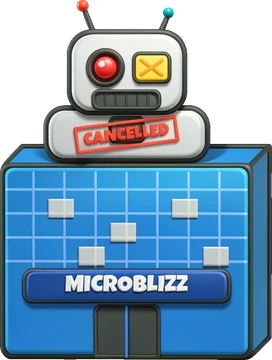
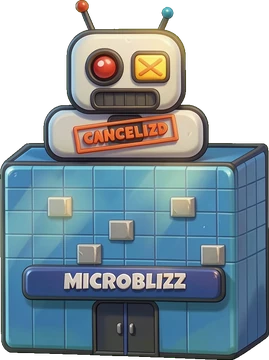
alfa 1b7ebe9: Rumble v2: cartas de Microblizz de frente, torre y sede de Microblizz repintadas

diff --git a/alfa/index.html b/alfa/index.html
@@ -12,10 +12,10 @@
 <link rel="preconnect" href="https://fonts.googleapis.com">
 <link rel="preconnect" href="https://fonts.gstatic.com" crossorigin>
 <link rel="stylesheet" href="https://fonts.googleapis.com/css2?family=Baloo+2:wght@600;700;800&family=Luckiest+Guy&display=swap">
-<link rel="stylesheet" href="core/css/base.css?v=97a256a">
-<link rel="stylesheet" href="biblioteca/tienda.css?v=97a256a">
-<link rel="stylesheet" href="novedades/ventana.css?v=97a256a">
-<link rel="stylesheet" href="biblioteca/votos.css?v=97a256a">
+<link rel="stylesheet" href="core/css/base.css?v=1b7ebe9">
+<link rel="stylesheet" href="biblioteca/tienda.css?v=1b7ebe9">
+<link rel="stylesheet" href="novedades/ventana.css?v=1b7ebe9">
+<link rel="stylesheet" href="biblioteca/votos.css?v=1b7ebe9">
 <style>
   /* la entrada de la web: una tarjeta por juego, con los colores y las letras de core */
   body { overflow: auto; touch-action: auto; align-items: flex-start; background-repeat: no-repeat; background-attachment: fixed; }
@@ -63,7 +63,7 @@
 </style>
 </head>
 <body>
-<script src="menu.js?v=97a256a" data-base="" data-core="1" data-pagina=""></script>
+<script src="menu.js?v=1b7ebe9" data-base="" data-core="1" data-pagina=""></script>
 <div class="nov-fondo" id="novedades" hidden>
   <div class="nov-caja" role="dialog" aria-modal="true" aria-labelledby="nov-titulo">
     <div class="nov-cabeza"><h2 class="ol" id="nov-titulo">NOVEDADES</h2><p id="nov-sub"></p></div>
@@ -372,8 +372,8 @@
   </section>
   <p class="note" id="pie-fansof">Fans Of™ · © 2026 Arkioner y Pepins · MicroBlizz · Todos los derechos reservados</p>
 </main>
-<script src="core/js/nucleo.js?v=0-a1090.97a256a"></script>
-<script src="core/js/novedades.js?v=97a256a"></script>
+<script src="core/js/nucleo.js?v=0-a1091.1b7ebe9"></script>
+<script src="core/js/novedades.js?v=1b7ebe9"></script>
 <script>
 // La cuenta de la web es la misma de los juegos (core/js/sistema/cuenta.js, mismo navegador = misma sesión). Aquí no hay partida que subir.
 const AJUSTES = { id: 'web', guardado: 'fansof-web' }, SAVE_KEY = AJUSTES.guardado, SAVE = {};
@@ -382,7 +382,7 @@ const HOOKS = {};
 function hook(name, fn) { (HOOKS[name] = HOOKS[name] || []).push(fn); }
 function fire(name, ...a) { let out = ''; for (const fn of HOOKS[name] || []) { const r = fn(...a); if (typeof r === 'string') out += r; } return out; }
 </script>
-<script src="core/js/sistema/cuenta.js?v=97a256a"></script>
+<script src="core/js/sistema/cuenta.js?v=1b7ebe9"></script>
 <script>NUCLEO.idiomaSolo({ en: ['core/idioma/en-raiz.js', 'novedades/en.js', 'biblioteca/en.js','games/rumble/idioma/en-7.js', 'games/td/idioma/en-2.js', 'games/survivors/idioma/en.js', 'games/crush/idioma/en-raiz.js', 'games/jump/idioma/en-raiz.js', 'games/taxi/idioma/en-raiz.js', 'games/dark/idioma/en-raiz.js', 'games/nova/idioma/en-raiz.js', 'games/nova/idioma/en-raiz-2.js', 'demos/beams/idioma/en-raiz.js', 'demos/snakes/idioma/en-raiz.js', 'demos/merge/idioma/en-raiz.js', 'demos/swipe/idioma/en-raiz.js', 'demos/pop/idioma/en-raiz.js', 'demos/vikings/idioma/en-raiz.js', 'demos/goose/idioma/en-raiz.js', 'demos/asalto/idioma/en-raiz.js', 'demos/auto/idioma/en-raiz.js', 'demos/shelter/idioma/en-raiz.js', 'demos/soccer/idioma/en-raiz.js', 'demos/air/idioma/en-raiz.js', 'demos/basement/idioma/en-raiz.js', 'demos/zombies/idioma/en-raiz.js', 'games/island/idioma/en-raiz.js', 'demos/rumble-3d/idioma/en-raiz.js', 'demos/roguelite/idioma/en-raiz.js', 'demos/tactics-advance/idioma/en-raiz.js', 'games/rouflage/idioma/en-raiz.js', 'demos/dungeons/idioma/en-raiz.js', 'games/karts/idioma/en-raiz.js', 'demos/recruit/idioma/en-raiz.js', 'demos/terminal-shock/idioma/en-raiz.js', 'games/ratkov/idioma/en-raiz.js'] })</script>
 <script>
 // La versión y las novedades salen de los archivos de cada juego, así que esta página nunca se queda atrás.
@@ -408,14 +408,14 @@ const fail = id => () => {
 };
 
 </script>
-<script src="core/js/proximamente.js?v=97a256a"></script>
-<script src="novedades/ventana.js?v=97a256a"></script>
-<script src="biblioteca/tienda.js?v=97a256a"></script>
-<script src="core/js/sistema/beta.js?v=97a256a"></script>
-<script src="biblioteca/cuenta-web.js?v=97a256a"></script>
-<script src="biblioteca/votos.js?v=97a256a"></script>
-<script src="biblioteca/alfa.js?v=97a256a"></script>
-<script src="core/js/sistema/analitica.js?v=97a256a"></script>
-<script src="pie.js?v=97a256a" defer></script>
+<script src="core/js/proximamente.js?v=1b7ebe9"></script>
+<script src="novedades/ventana.js?v=1b7ebe9"></script>
+<script src="biblioteca/tienda.js?v=1b7ebe9"></script>
+<script src="core/js/sistema/beta.js?v=1b7ebe9"></script>
+<script src="biblioteca/cuenta-web.js?v=1b7ebe9"></script>
+<script src="biblioteca/votos.js?v=1b7ebe9"></script>
+<script src="biblioteca/alfa.js?v=1b7ebe9"></script>
+<script src="core/js/sistema/analitica.js?v=1b7ebe9"></script>
+<script src="pie.js?v=1b7ebe9" defer></script>
 </body>
 </html>

diff --git a/alfa/games/rouflage/index.html b/alfa/games/rouflage/index.html
@@ -10,7 +10,7 @@
 <link rel="preconnect" href="https://fonts.googleapis.com">
 <link rel="preconnect" href="https://fonts.gstatic.com" crossorigin>
 <link rel="stylesheet" href="https://fonts.googleapis.com/css2?family=Baloo+2:wght@600;700;800&family=Luckiest+Guy&display=swap">
-<script src="../../core/js/nucleo.js?v=0.2.75-a1090.97a256a"></script>
+<script src="../../core/js/nucleo.js?v=0.2.75-a1091.1b7ebe9"></script>
 <script>NUCLEO.estilos('../../core/css/base.css', '../../core/css/menus.css', '../../core/css/menus-extra.css')</script>
 <script>NUCLEO.estilos('estilo.css', 'estilo-taller.css', 'estilo-pantallas.css', 'estilo-pvp.css', 'estilo-armario.css', 'estilo-menus.css', 'estilo-misiones.css', 'estilo-escenario.css', 'estilo-votos.css', 'estilo-gacha.css', 'estilo-compra.css', 'estilo-fin.css', 'estilo-talentos.css', 'estilo-chat.css', 'estilo-titulo.css', 'estilo-tienda.css', 'estilo-barras.css', 'estilo-tarjetas.css', 'estilo-barra.css', 'estilo-sala-viva.css', 'estilo-obra.css', 'estilo-ayuda.css', 'estilo-pintura.css', 'estilo-carga.css')</script>      <!-- la intro, la última: pisa el #carga de estilo.css (antes iba en línea dentro de #carga) -->
 </head>

diff --git a/alfa/demos/rumble-v2/index.html b/alfa/demos/rumble-v2/index.html
@@ -18,7 +18,7 @@
 <!-- core/js/nucleo.js carga lo común y el juego. LA VERSIÓN SE ESCRIBE SOLO AQUÍ, en su ?v= -->
 <!-- GENERADO por herramientas/rumble_v2.py desde games/rumble/index.html: no editar a mano -->
 <script>try { const u = new URL(location.href); if (u.searchParams.get('nube') !== '0') { u.searchParams.set('nube', '0'); history.replaceState(null, '', u); } } catch (e) { /* sin dirección */ }</script>
-<script src="../../core/js/nucleo.js?v=0.9.166-a1090.97a256a"></script>
+<script src="../../core/js/nucleo.js?v=0.9.166-a1091.1b7ebe9"></script>
 <script>NUCLEO.estilos('../../core/css/menus.css', '../../games/rumble/css/estilos-partida.css', '../../games/rumble/css/estilos-extra.css', '../../games/rumble/css/arena.css', '../../core/css/biblioteca.css', '../../games/rumble/css/facciones-y-jefes.css', '../../core/css/clasificacion.css', '../../games/rumble/css/frases.css', '../../games/rumble/css/mitica.css', '../../games/rumble/css/paletas.css')</script>
 
 </head>

diff --git a/alfa/games/karts/index.html b/alfa/games/karts/index.html
@@ -8,7 +8,7 @@
 <meta name="description" content="Fans of Karts (juego): carreras de karts en pixel art de consola portátil con los líderes de Fans of Rumble. Tres pistas, seis pilotos, objetos con mala idea y Microblizz, que ha comprado la carrera.">
 <link rel="icon" type="image/png" href="img/favicon.png">
 <link rel="apple-touch-icon" href="img/icon-192.png">
-<script src="../../core/js/nucleo.js?v=0.7.24-a1090.97a256a"></script>
+<script src="../../core/js/nucleo.js?v=0.7.24-a1091.1b7ebe9"></script>
 <script>NUCLEO.estilos('../../core/css/base.css', '../../core/css/menus.css', '../../core/css/menus-tienda.css', '../../core/css/menus-extra.css', 'css/tienda.css', 'css/pvp.css')</script>
 <link rel="stylesheet" href="https://fonts.googleapis.com/css2?family=Baloo+2:wght@600;700;800&family=Luckiest+Guy&display=swap">
 <style>

diff --git a/alfa/games/dark/index.html b/alfa/games/dark/index.html
@@ -12,7 +12,7 @@
 <link rel="stylesheet" href="https://fonts.googleapis.com/css2?family=Baloo+2:wght@600;700;800&family=Luckiest+Guy&family=Press+Start+2P&family=Pixelify+Sans:wght@400;600;700&display=swap">
 <link rel="stylesheet" href="css/dark.css?v=0.2.4">
 <!-- Prototipo: no usa NUCLEO (tiene su propia partida guardada). Carga de core el arte, la música, los efectos y las cifras del Rumble.
-     VERSIÓN para desplegar.py (que la busca así): nucleo.js?v=0.2.7-a1090.97a256a' (aquí solo se anota; súbela junto al ?v= de los scripts). -->
+     VERSIÓN para desplegar.py (que la busca así): nucleo.js?v=0.2.7-a1091.1b7ebe9' (aquí solo se anota; súbela junto al ?v= de los scripts). -->
 </head>
 <body>
 <canvas id="cv" aria-label="Mazmorra"></canvas>

diff --git a/alfa/games/rumble/index.html b/alfa/games/rumble/index.html
@@ -16,7 +16,7 @@
 <link rel="preconnect" href="https://fonts.gstatic.com" crossorigin>
 <link rel="stylesheet" href="https://fonts.googleapis.com/css2?family=Baloo+2:wght@600;700;800&family=Luckiest+Guy&display=swap">
 <!-- core/js/nucleo.js carga lo común y el juego. LA VERSIÓN SE ESCRIBE SOLO AQUÍ, en su ?v= -->
-<script src="../../core/js/nucleo.js?v=0.9.167-a1090.97a256a"></script>
+<script src="../../core/js/nucleo.js?v=0.9.167-a1091.1b7ebe9"></script>
 <script>NUCLEO.estilos('../../core/css/menus.css', 'css/estilos-partida.css', 'css/estilos-extra.css', 'css/arena.css', '../../core/css/biblioteca.css', 'css/facciones-y-jefes.css', '../../core/css/clasificacion.css', 'css/frases.css', 'css/mitica.css', 'css/paletas.css')</script>
 
 </head>

diff --git a/alfa/demos/rumble-v2/js/arte-v2.js b/alfa/demos/rumble-v2/js/arte-v2.js
@@ -9,7 +9,8 @@ const V2 = (() => {
     'ceo', 'becario', 'starbot', 'fallen', 'e_tower', 'e_base', 'e_rubble',
   ];
   // retrato DE FRENTE de las cartas (regla de Daniel, 7-11-2026: siempre de cara, mirando recto y centrado): img/frente/<nombre>.webp
-  const FRENTE = ['bunny', 'beaver', 'squirrel', 'fox', 'meercat', 'junkcoon', 'mechavaca', 'vaca', 'huron'];
+  const FRENTE = ['bunny', 'beaver', 'squirrel', 'fox', 'meercat', 'junkcoon', 'mechavaca', 'vaca', 'huron',
+    'becario', 'starbot', 'fallen', 'cajabotin', 'soportebot', 'parchebot'];
   // fondos del campo: facción|plaza -> archivo (todo en WebP: pesa poco en el móvil)
   // (el de Animales se baja al empezar; los demás, la primera vez que hacen falta)
   const FONDOS = {

diff --git a/alfa/games/jump/index.html b/alfa/games/jump/index.html
@@ -12,7 +12,7 @@
 <link rel="preconnect" href="https://fonts.gstatic.com" crossorigin>
 <link rel="stylesheet" href="https://fonts.googleapis.com/css2?family=Baloo+2:wght@600;700;800&family=Luckiest+Guy&display=swap">
 <!-- ?v= es la versión del juego (la misma en la web y en la app): súbela al publicar y pon su entrada en js/novedades.js -->
-<script src="../../core/js/nucleo.js?v=0.3.25-a1090.97a256a"></script>
+<script src="../../core/js/nucleo.js?v=0.3.25-a1091.1b7ebe9"></script>
 <script>NUCLEO.estilos('../../core/css/base.css', '../../core/css/menus.css')</script>
 <style>
 /* Fans of Jump: un solo canvas a la resolución real de la pantalla, con los dibujos 3D. El mundo mide unos 200 de ancho y se

diff --git a/alfa/games/decks/index.html b/alfa/games/decks/index.html
@@ -15,7 +15,7 @@
 <link rel="preconnect" href="https://fonts.gstatic.com" crossorigin>
 <link rel="stylesheet" href="https://fonts.googleapis.com/css2?family=Baloo+2:wght@600;700;800&family=Luckiest+Guy&display=swap">
 <!-- core/js/nucleo.js carga lo común y el juego. LA VERSIÓN SE ESCRIBE SOLO AQUÍ, en su ?v= -->
-<script src="../../core/js/nucleo.js?v=0.2.30-a1090.97a256a"></script>
+<script src="../../core/js/nucleo.js?v=0.2.30-a1091.1b7ebe9"></script>
 <script>NUCLEO.estilos('../../core/css/base.css', '../../core/css/menus.css', 'css/decks.css', 'css/decks-reunion.css', 'css/decks-anim.css', 'css/decks-campana.css', 'css/decks-lideres.css')</script>
 </head>
 <body>

diff --git a/alfa/demos/zombies/index.html b/alfa/demos/zombies/index.html
@@ -11,7 +11,7 @@
 <link rel="stylesheet" href="https://fonts.googleapis.com/css2?family=VT323&family=Russo+One&family=Permanent+Marker&family=Special+Elite&display=swap">
 <script src="https://cdnjs.cloudflare.com/ajax/libs/three.js/r128/three.min.js"></script>
 <!-- ?v= es la versión de la demo: súbela al publicar -->
-<script src="../../core/js/nucleo.js?v=0.14.0-a1090.97a256a"></script>
+<script src="../../core/js/nucleo.js?v=0.14.0-a1091.1b7ebe9"></script>
 <script>NUCLEO.estilos('../../core/css/base.css', '../../core/css/menus.css')</script>
 <link rel="stylesheet" href="estilo.css?v=0.14.0">
 <link rel="stylesheet" href="estilo-menus.css?v=0.14.0">

diff --git a/alfa/games/ratkov/index.html b/alfa/games/ratkov/index.html
@@ -13,7 +13,7 @@
 <link rel="preconnect" href="https://fonts.gstatic.com" crossorigin>
 <link rel="stylesheet" href="https://fonts.googleapis.com/css2?family=VT323&family=Russo+One&display=swap">
 <script src="https://cdnjs.cloudflare.com/ajax/libs/three.js/r128/three.min.js"></script>
-<script src="../../core/js/nucleo.js?v=0.2.38-a1090.97a256a"></script>
+<script src="../../core/js/nucleo.js?v=0.2.38-a1091.1b7ebe9"></script>
 <script>NUCLEO.estilos('../../core/css/base.css', '../../core/css/menus.css')</script>
 <link rel="stylesheet" href="estilo.css?v=0.2.3">
 <link rel="stylesheet" href="estilo-refugio.css?v=0.2.3">

diff --git a/alfa/games/survivors/index.html b/alfa/games/survivors/index.html
@@ -15,7 +15,7 @@
 <link rel="preconnect" href="https://fonts.gstatic.com" crossorigin>
 <link rel="stylesheet" href="https://fonts.googleapis.com/css2?family=Baloo+2:wght@600;700;800&family=Luckiest+Guy&display=swap">
 <!-- core/js/nucleo.js carga lo común y el juego. LA VERSIÓN SE ESCRIBE SOLO AQUÍ, en su ?v= -->
-<script src="../../core/js/nucleo.js?v=0.1.80-a1090.97a256a"></script>
+<script src="../../core/js/nucleo.js?v=0.1.80-a1091.1b7ebe9"></script>
 <script>NUCLEO.estilos('../../core/css/base.css', '../../core/css/menus.css', 'css/survivors.css', '../../core/css/biblioteca.css')</script>
 </head>
 <body>
